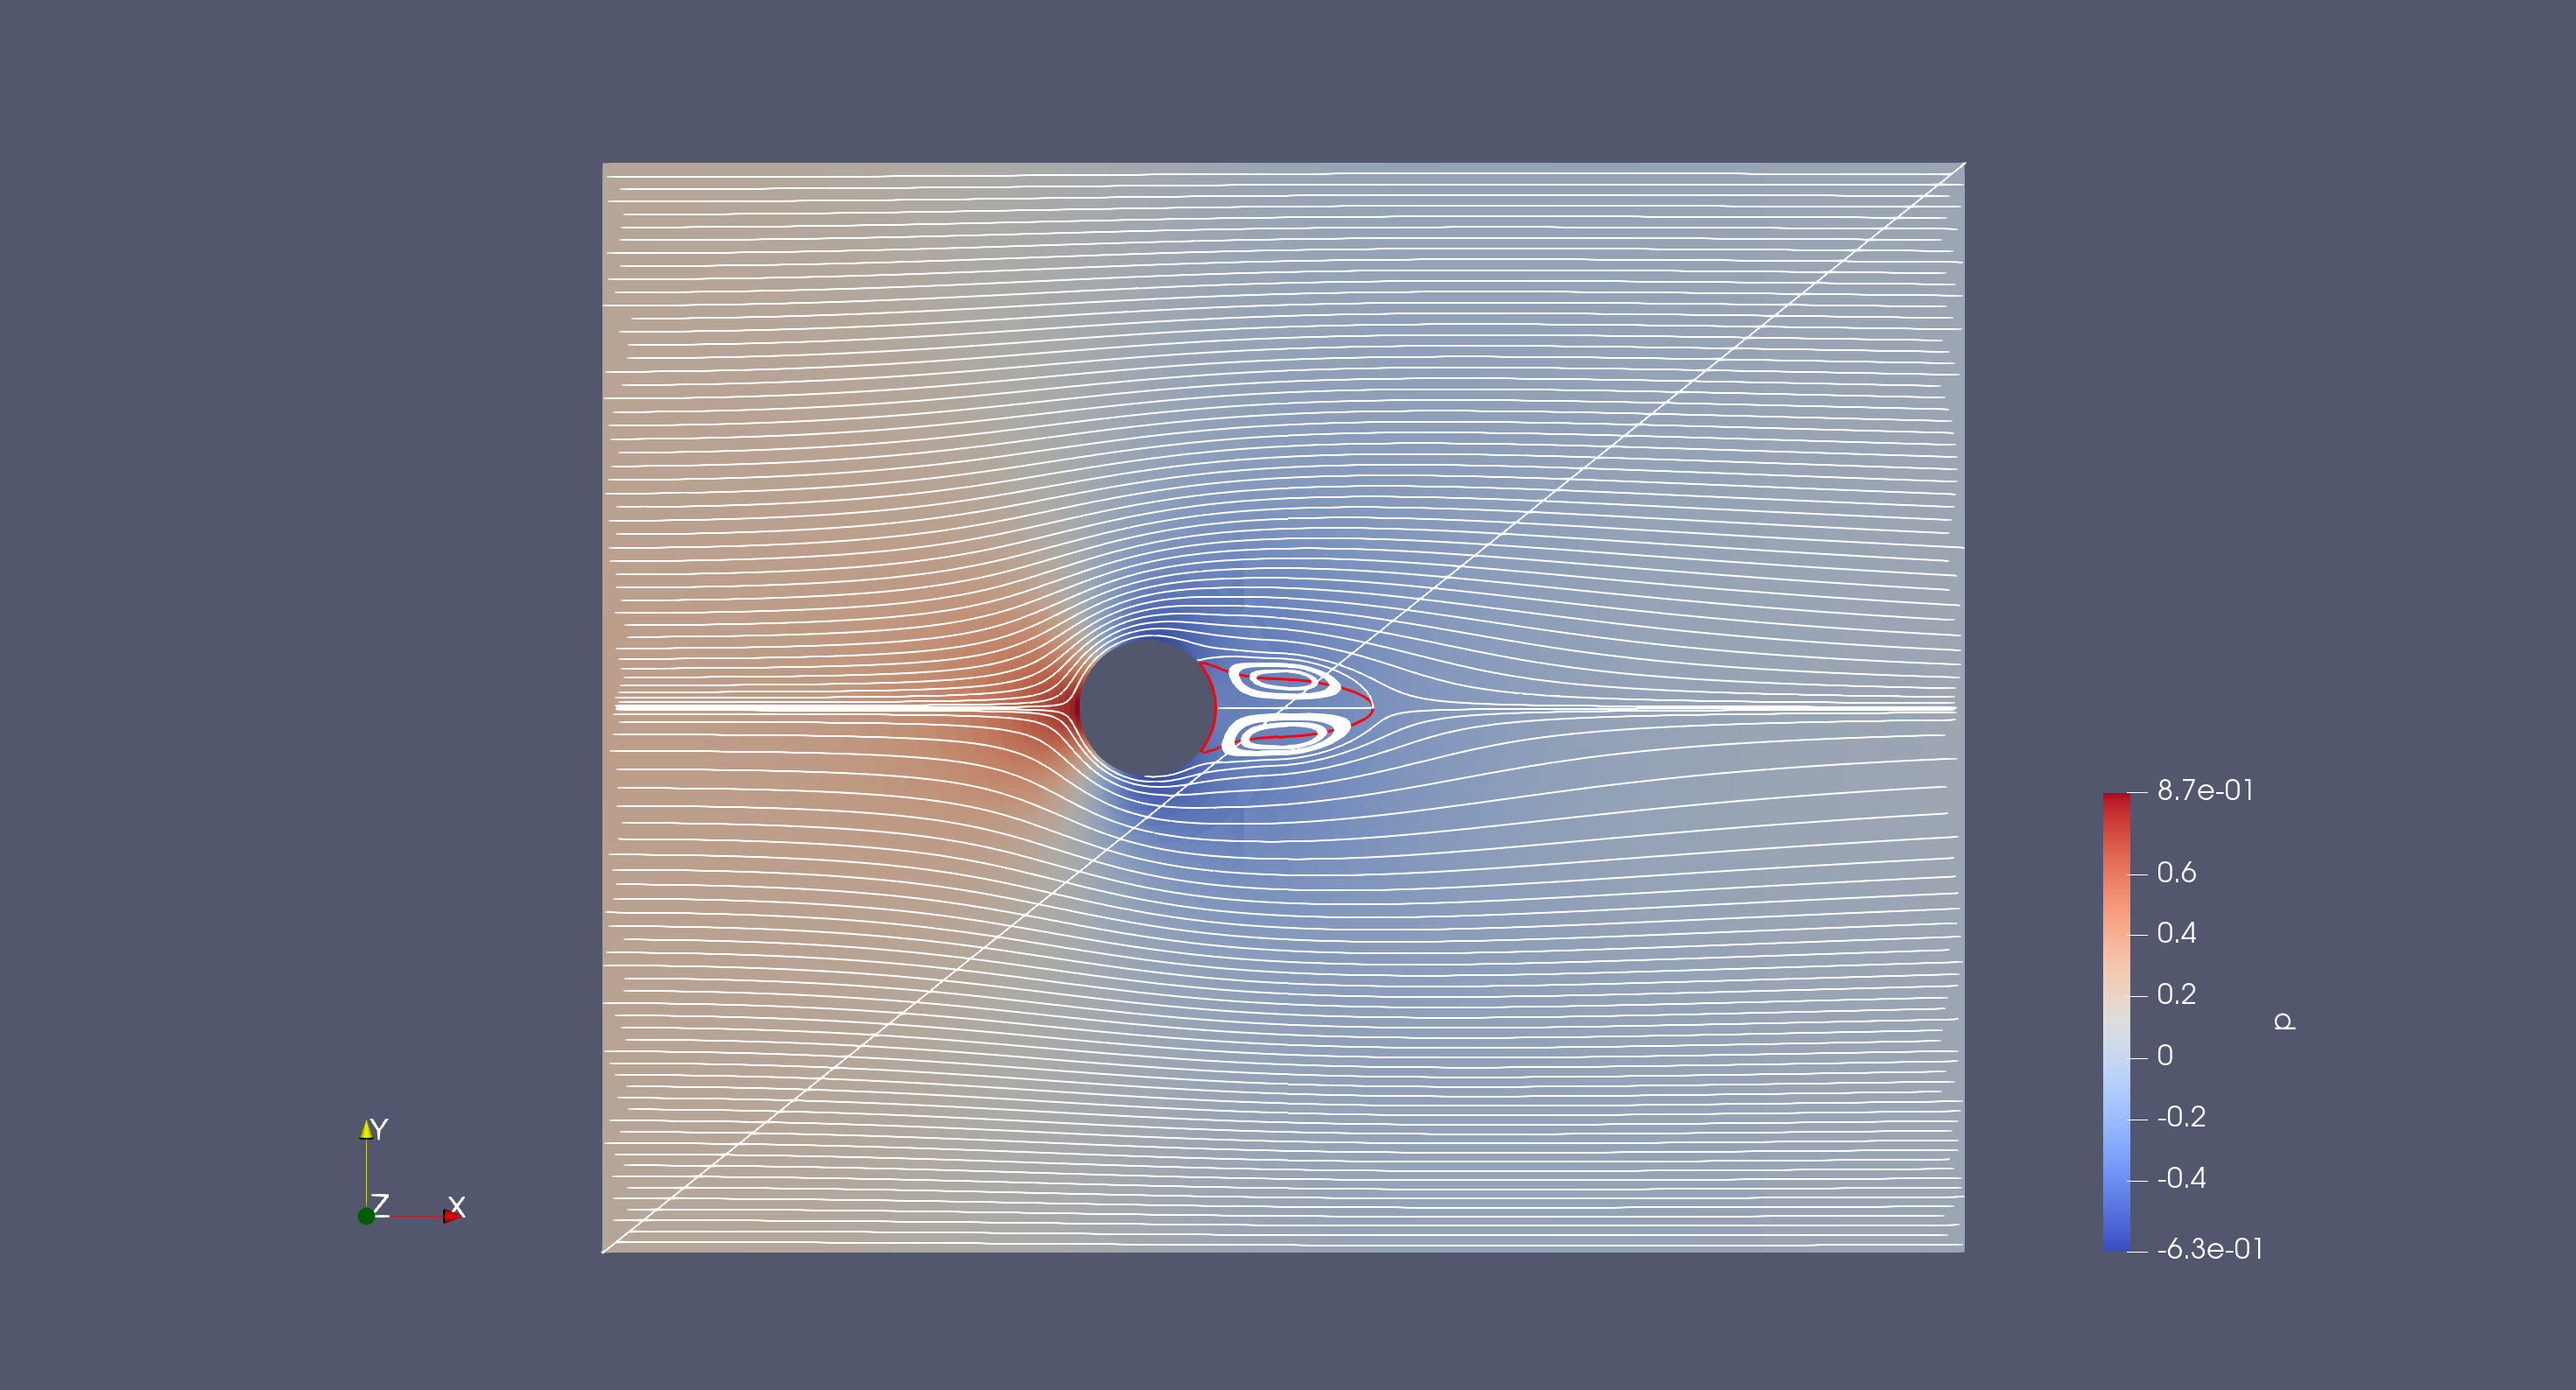
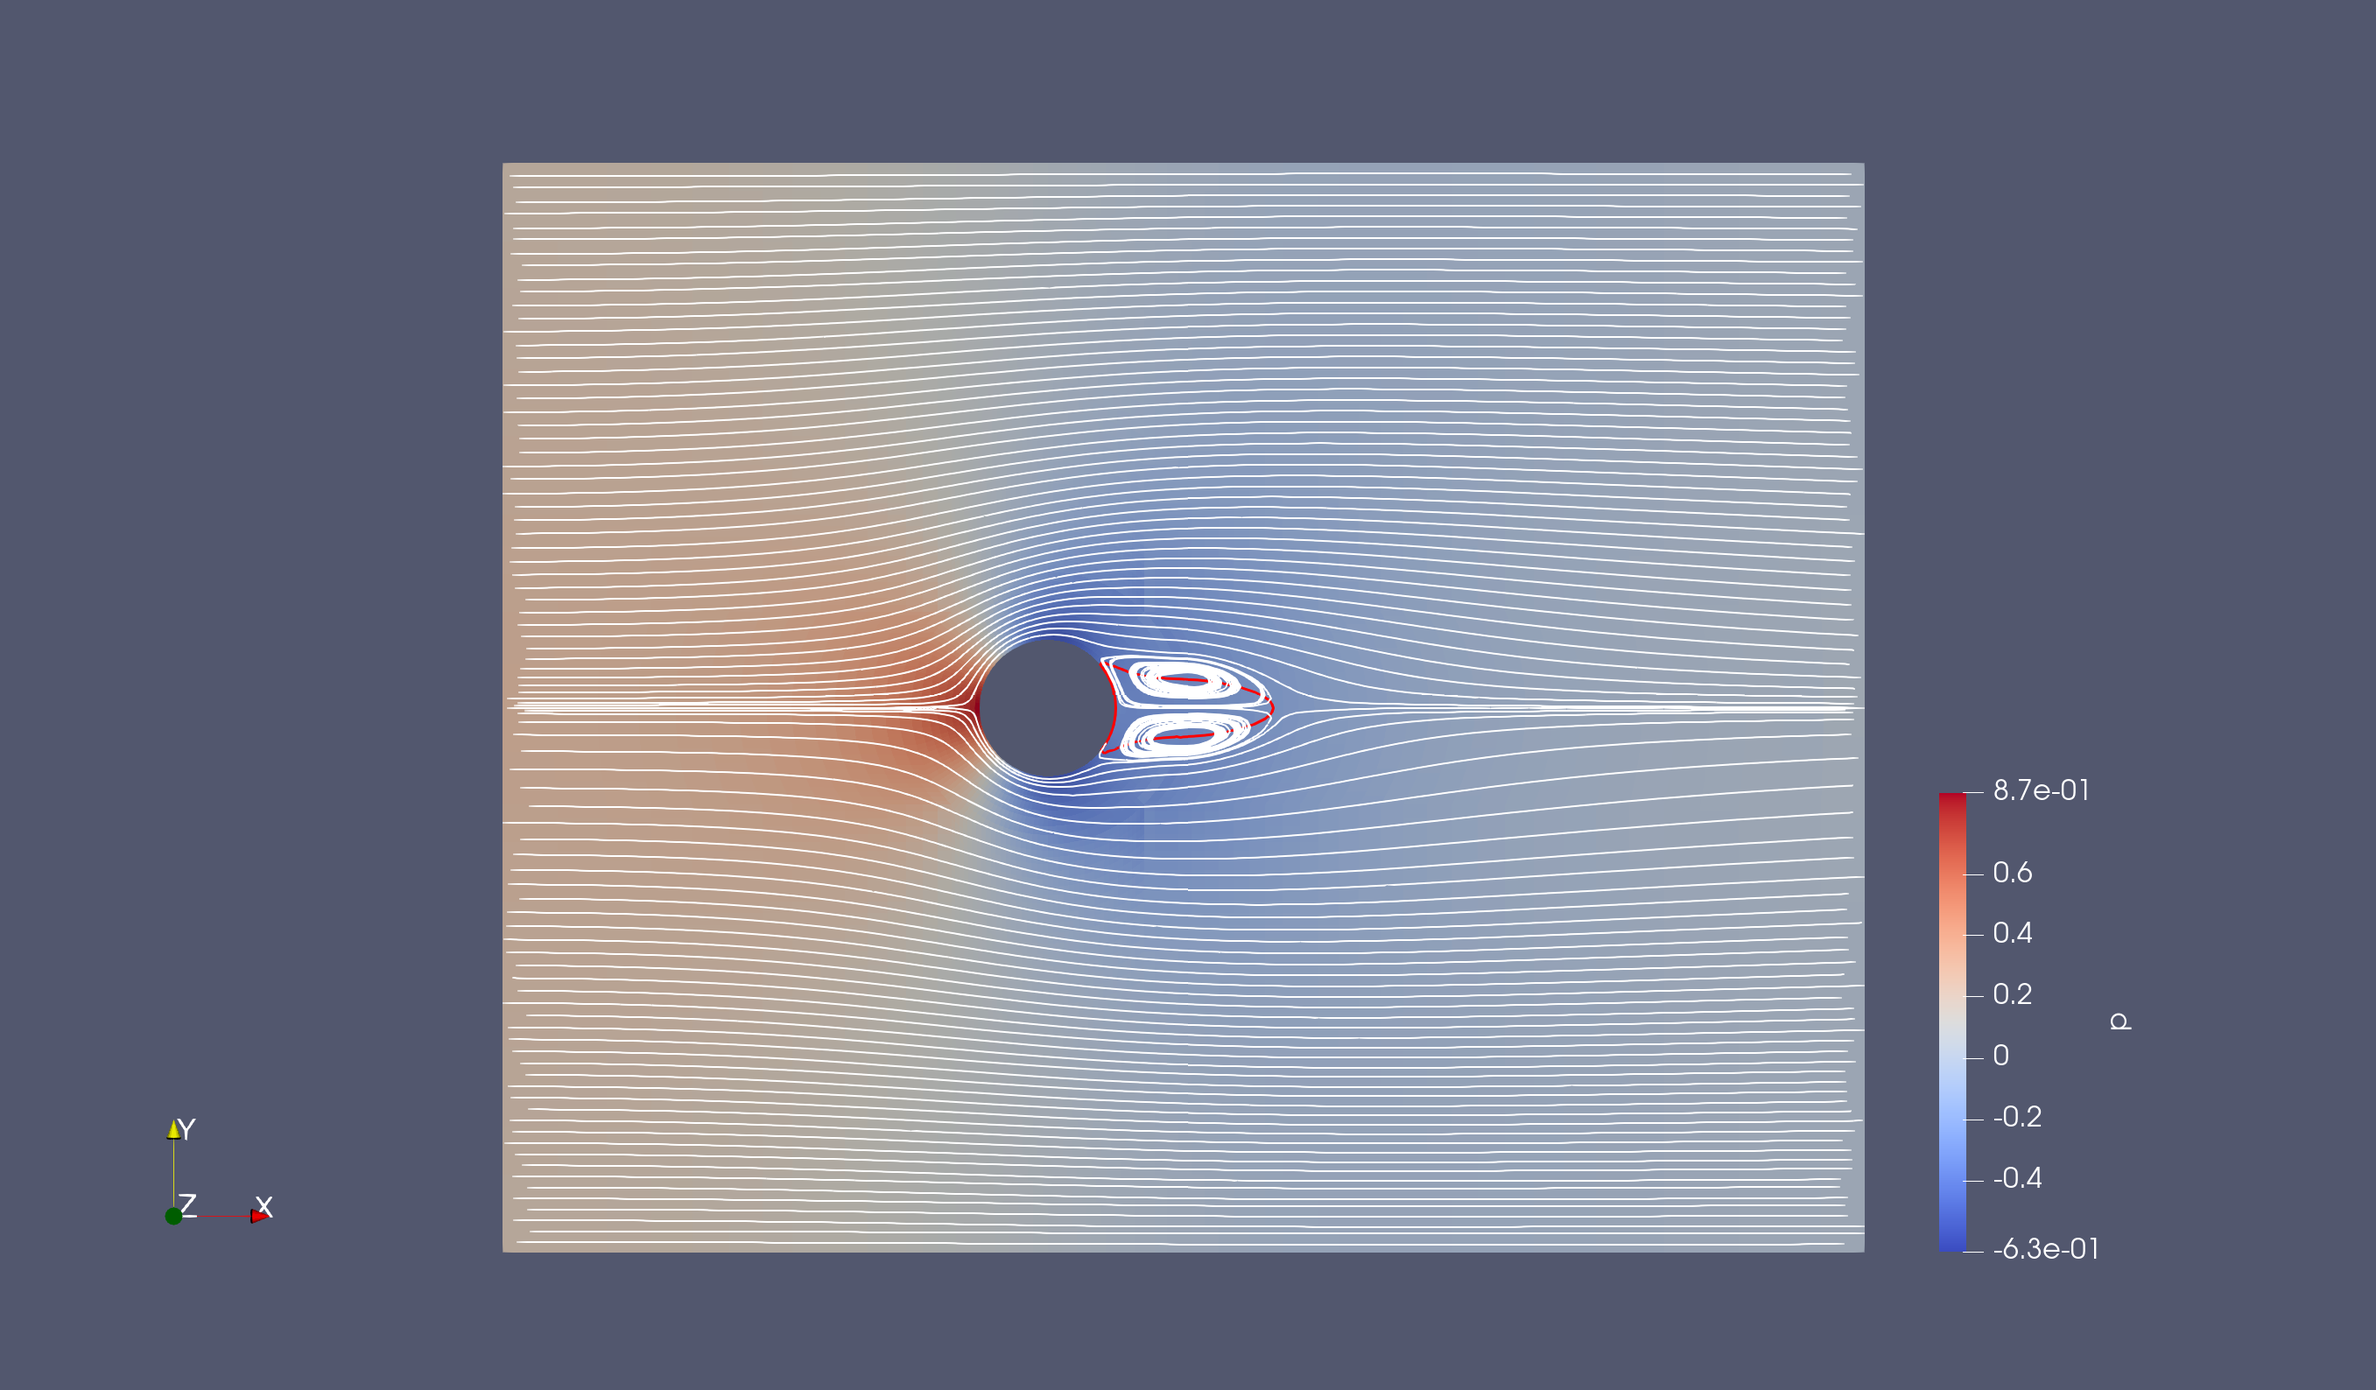
commmit

diff --git a/part-1-mesh/gen_mesh.py b/part-1-mesh/gen_mesh.py
@@ -115,14 +115,14 @@ blocks = np.array([
 ])
 
 ncells = np.array([
-    [10, 20, 1],
-    [10, 20, 1],
-    [10, 20, 1],
-    [10, 20, 1],
-    [10, 20, 1],
-    [10, 20, 1],
-    [10, 20, 1],
-    [10, 20, 1],
+    [20, 20, 1],
+    [20, 20, 1],
+    [20, 20, 1],
+    [20, 20, 1],
+    [20, 20, 1],
+    [20, 20, 1],
+    [20, 20, 1],
+    [20, 20, 1],
     [30, 20, 1],
     [30, 30, 1],
     [20, 30, 1],
@@ -346,9 +346,7 @@ for i, (name, arr, btype) in enumerate(zip(bnames, boundaries, btypes)):
 f.write(");")
 f.close()
 
-
 # plots
-"""
 fig, ax = plt.subplots(1,1)
 ax.set_title('Mesh Vertices')
 
@@ -357,23 +355,17 @@ plt.rcParams['font.size'] = 18
 plt.rcParams['axes.linewidth'] = 2
 
 # Vertices
-ax.scatter(vert[:,0], vert[:,1], c='b')
-for i in range(32):
-    s = str(i) + "(" + str(i+32) + ")"
-    ax.text(vert[i,0]+.05, vert[i,1], s, fontsize=8)
-
-# Edges
-for j, edge in enumerate(edges):
-    x = [vert[edge[0],0], vert[edge[1],0]]
-    y = [vert[edge[0],1], vert[edge[1],1]]
-    ax.plot(x, y, c='r')
+ax.scatter(vert[:,0], vert[:,1], c='k')
+# for i in range(32):
+#     s1 = str(i) 
+#     s2 = "(" + str(i+32) + ")"
+#     ax.text(vert[i,0]+.05, vert[i,1], s1, c='r', fontsize=8)
+#     ax.text(vert[i,0]+.15, vert[i,1], s2, c='b', fontsize=8)
 
 
-# ax.scatter(epoints[:,0], epoints[:,1], c='r')
+ax.scatter(epoints[:,0], epoints[:,1], c='r')
 # for j, pt in enumerate(epoints):
 #     if pt[2] == 0.5:
-#         ax.annotate(str(j), (pt[0], pt[1]))    
-
+#         ax.annotate(str(j), (pt[0], pt[1]), fontsize=8)    
 
 plt.show()
-"""

diff --git a/part-2-prelim-soln/plot_probes.py b/part-2-prelim-soln/plot_probes.py
@@ -35,7 +35,7 @@ colors = [mpl.cm.tab10(i) for i in range(6)]
 # (x,y) = (5.5,-0.5)
 fig, ax = plt.subplots(3,1, sharex=True)
 ax[0].plot(p[:,0], p[:,1], c=colors[0], label="p/pU^2")
-ax[0].set_title("Probe at (x,y)=(5.5,-0.5)")
+ax[0].set_title("Probe at (x,y)=(5.5,-0.5)", fontsize=25)
 ax[0].set_ylabel("Normalized Pressure")
 ax[0].legend(loc=5)
 
@@ -54,7 +54,7 @@ ax[2].legend(loc=1)
 # (x,y) = (5.5,0.5)
 fig2, ax2 = plt.subplots(3,1, sharex=True)
 ax2[0].plot(p[:,0], p[:,2], c=colors[1], label="p/pU^2")
-ax2[0].set_title("Probe (x,y)=(5.5,0.5)")
+ax2[0].set_title("Probe (x,y)=(5.5,0.5)", fontsize=25)
 ax2[0].set_ylabel("Normalized Pressure")
 ax2[0].legend(loc=1)
 
